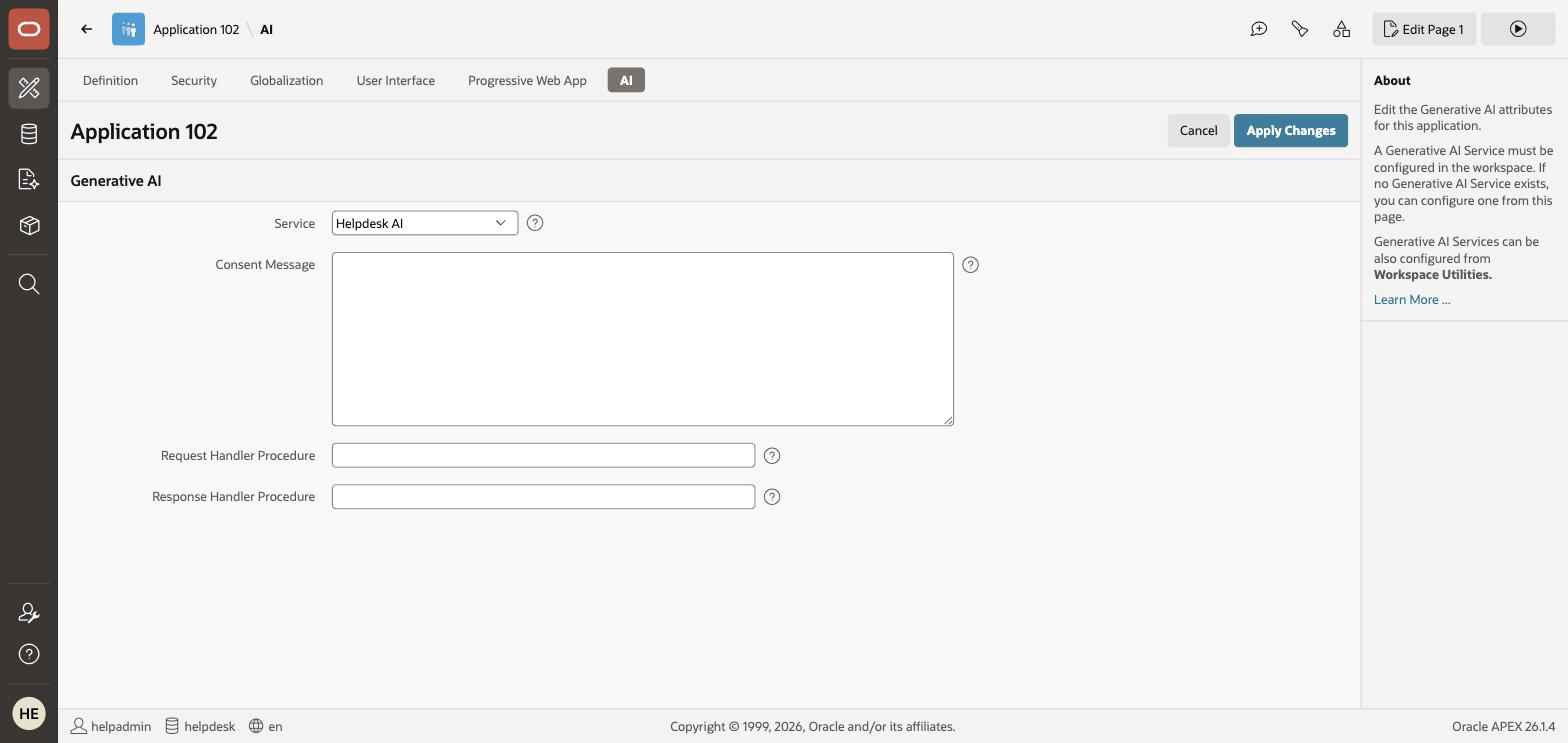
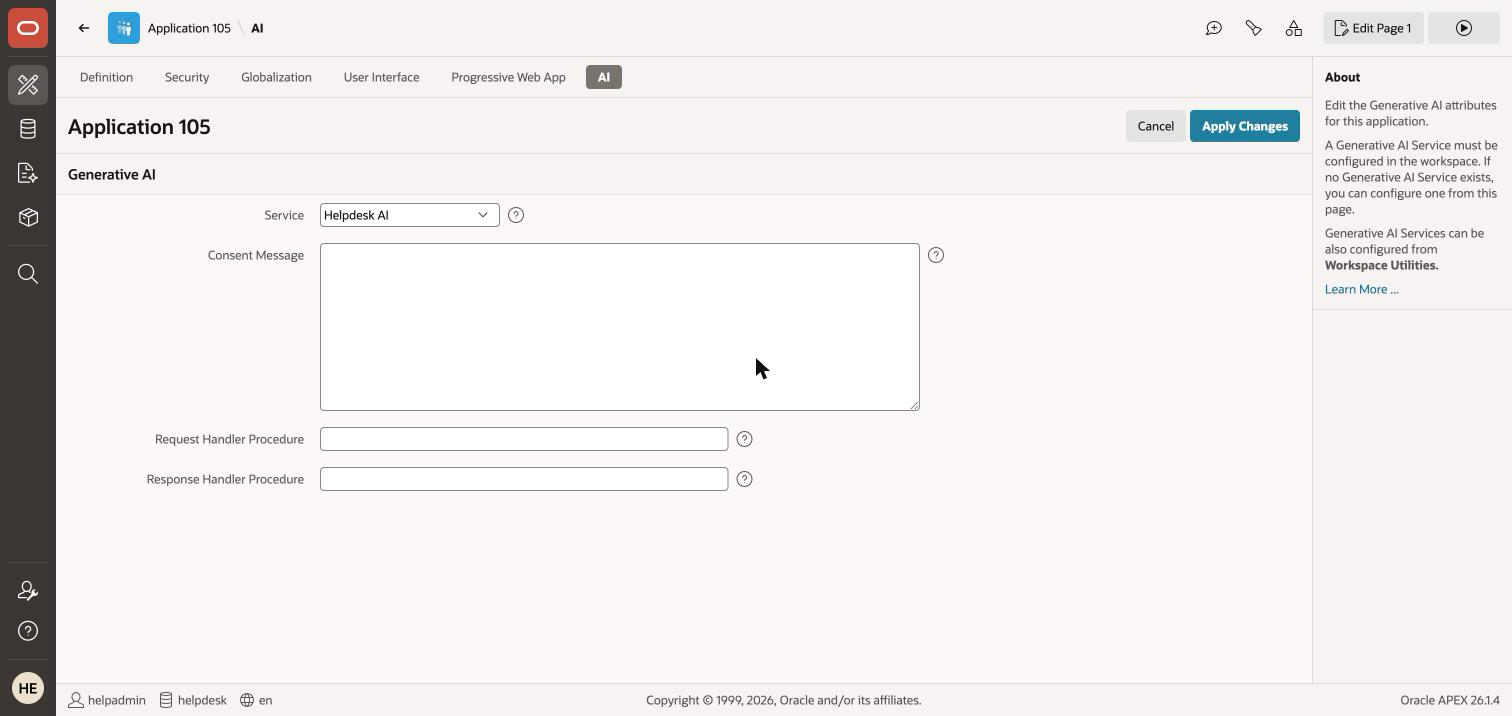
Lab 4: document the per-model 429; confirm grok-4.3 is the right model
Lab 4 is blocked on this tenancy by the per-model Generative AI service limit,
not by model choice. Confirmed xai.grok-4.3 is correct - xai.grok-4 returns
HTTP-404 "Entity with key xai.grok-4 not found" - and restored the service.

Reproduced live: ORA-20954 / HTTP-429 "the OCI Generative AI service limit for
this model has been reached". First prompt fails, a retry a minute later
succeeds, the next fails again. This refines finding #11, which recorded the
throttle as not clearing after 70s; it does clear, just not reliably enough to
run the lab.

Lab 4's troubleshooting previously covered only INVALID_TOOL_GENERATION; it now
covers the 429 too, with the verbatim text and where to raise the limit.

Also noted for re-test once the limit is raised: on the one call that got
through, grok-4.3 answered conversationally and applied no chips, claiming a
chart already existed when it did not. So NL2IR action generation is still
unproven on this model, independent of quota.

Claude-Session: https://claude.ai/code/session_01Roi77wP42pEGuuHzavMxaT

diff --git a/tasks/todo.md b/tasks/todo.md
@@ -746,3 +746,29 @@ whole argument.
 `app-running.png` and `finished-dashboard.png` re-captured from app 105 after removing the two placeholder
 regions, so the shipped images show what a reader following the corrected lab actually gets: two real
 charts, correct counts, no ORA-20987.
+
+### Lab 4 — blocked by the per-model service limit (2026-08-31)
+
+**Model choice confirmed correct.** The service is on `xai.grok-4.3`, which is what Lab 1 prescribes for
+Lab 4's tool calling. Tested `xai.grok-4` as an alternative: **HTTP-404 "Entity with key xai.grok-4 not
+found"** — it does not exist. Service restored to `xai.grok-4.3` and saved.
+
+**What blocks Lab 4 is the tenancy's per-model service limit, not the model.** Reproduced live:
+
+```
+ORA-20954: ... failed with HTTP-429: 429: The requested model is throttled because the OCI Generative AI
+service limit for this model has been reached. Request a service limit increase for Generative AI in OCI,
+then retry.
+```
+
+Behaviour: first prompt 429s, a retry ~60s later succeeds, the next prompt 429s again. **This refines
+finding #11** — the earlier run recorded the throttle as *not* clearing after 70s; here it does clear, but
+not reliably enough to run the lab.
+
+**Second, separate concern.** On the one call that got through, `xai.grok-4.3` replied conversationally —
+*"The report already displays a pie chart of open tickets by priority (count of SUBJECT)"* — and applied
+**no chips**; the report was unchanged. That claim was false. So even with quota headroom, it is unproven
+that grok-4.3 drives NL2IR actions rather than just answering about them. **`nl2ir-chips.png` cannot be
+captured until the service limit is raised**, and Lab 4's payoff needs re-testing at that point.
+
+Documented the 429 in Lab 4's troubleshooting, which previously only covered `INVALID_TOOL_GENERATION`.

diff --git a/ai-helpdesk-agent/4-ai-interactive-report/4-ai-interactive-report.md b/ai-helpdesk-agent/4-ai-interactive-report/4-ai-interactive-report.md
@@ -61,6 +61,19 @@ The workspace-level service from Lab 1 must be selected inside the app before in
 
 4. **Save and Run Page.** The report opens with a conversational search bar.
 
+    > **`HTTP-429 ... the OCI Generative AI service limit for this model has been reached`** is the
+    > other one you may hit, and it is **not** a configuration problem. It is a **per-model service
+    > limit** on your tenancy, separate from the compartment chat quota. Symptoms: the first prompt
+    > errors, a retry a minute later succeeds, the next prompt errors again. Verbatim:
+    >
+    > `ORA-20954: ... failed with HTTP-429: 429: The requested model is throttled because the OCI`
+    > `Generative AI service limit for this model has been reached. Request a service limit increase`
+    > `for Generative AI in OCI, then retry.`
+    >
+    > Raise the limit in **OCI Console > Governance & Administration > Limits, Quotas and Usage**
+    > for Generative AI, or run this lab on a tenancy where it is already raised. Retrying works,
+    > but not reliably enough to demo.
+
     > **If prompting the report returns an error instead of chips**, read the error text:
     > `INVALID_TOOL_GENERATION`, or a complaint about `$schema` / `function_declarations`, means your
     > **Model ID cannot drive APEX's tool calling**. Nothing on this page is wrong. Go to
